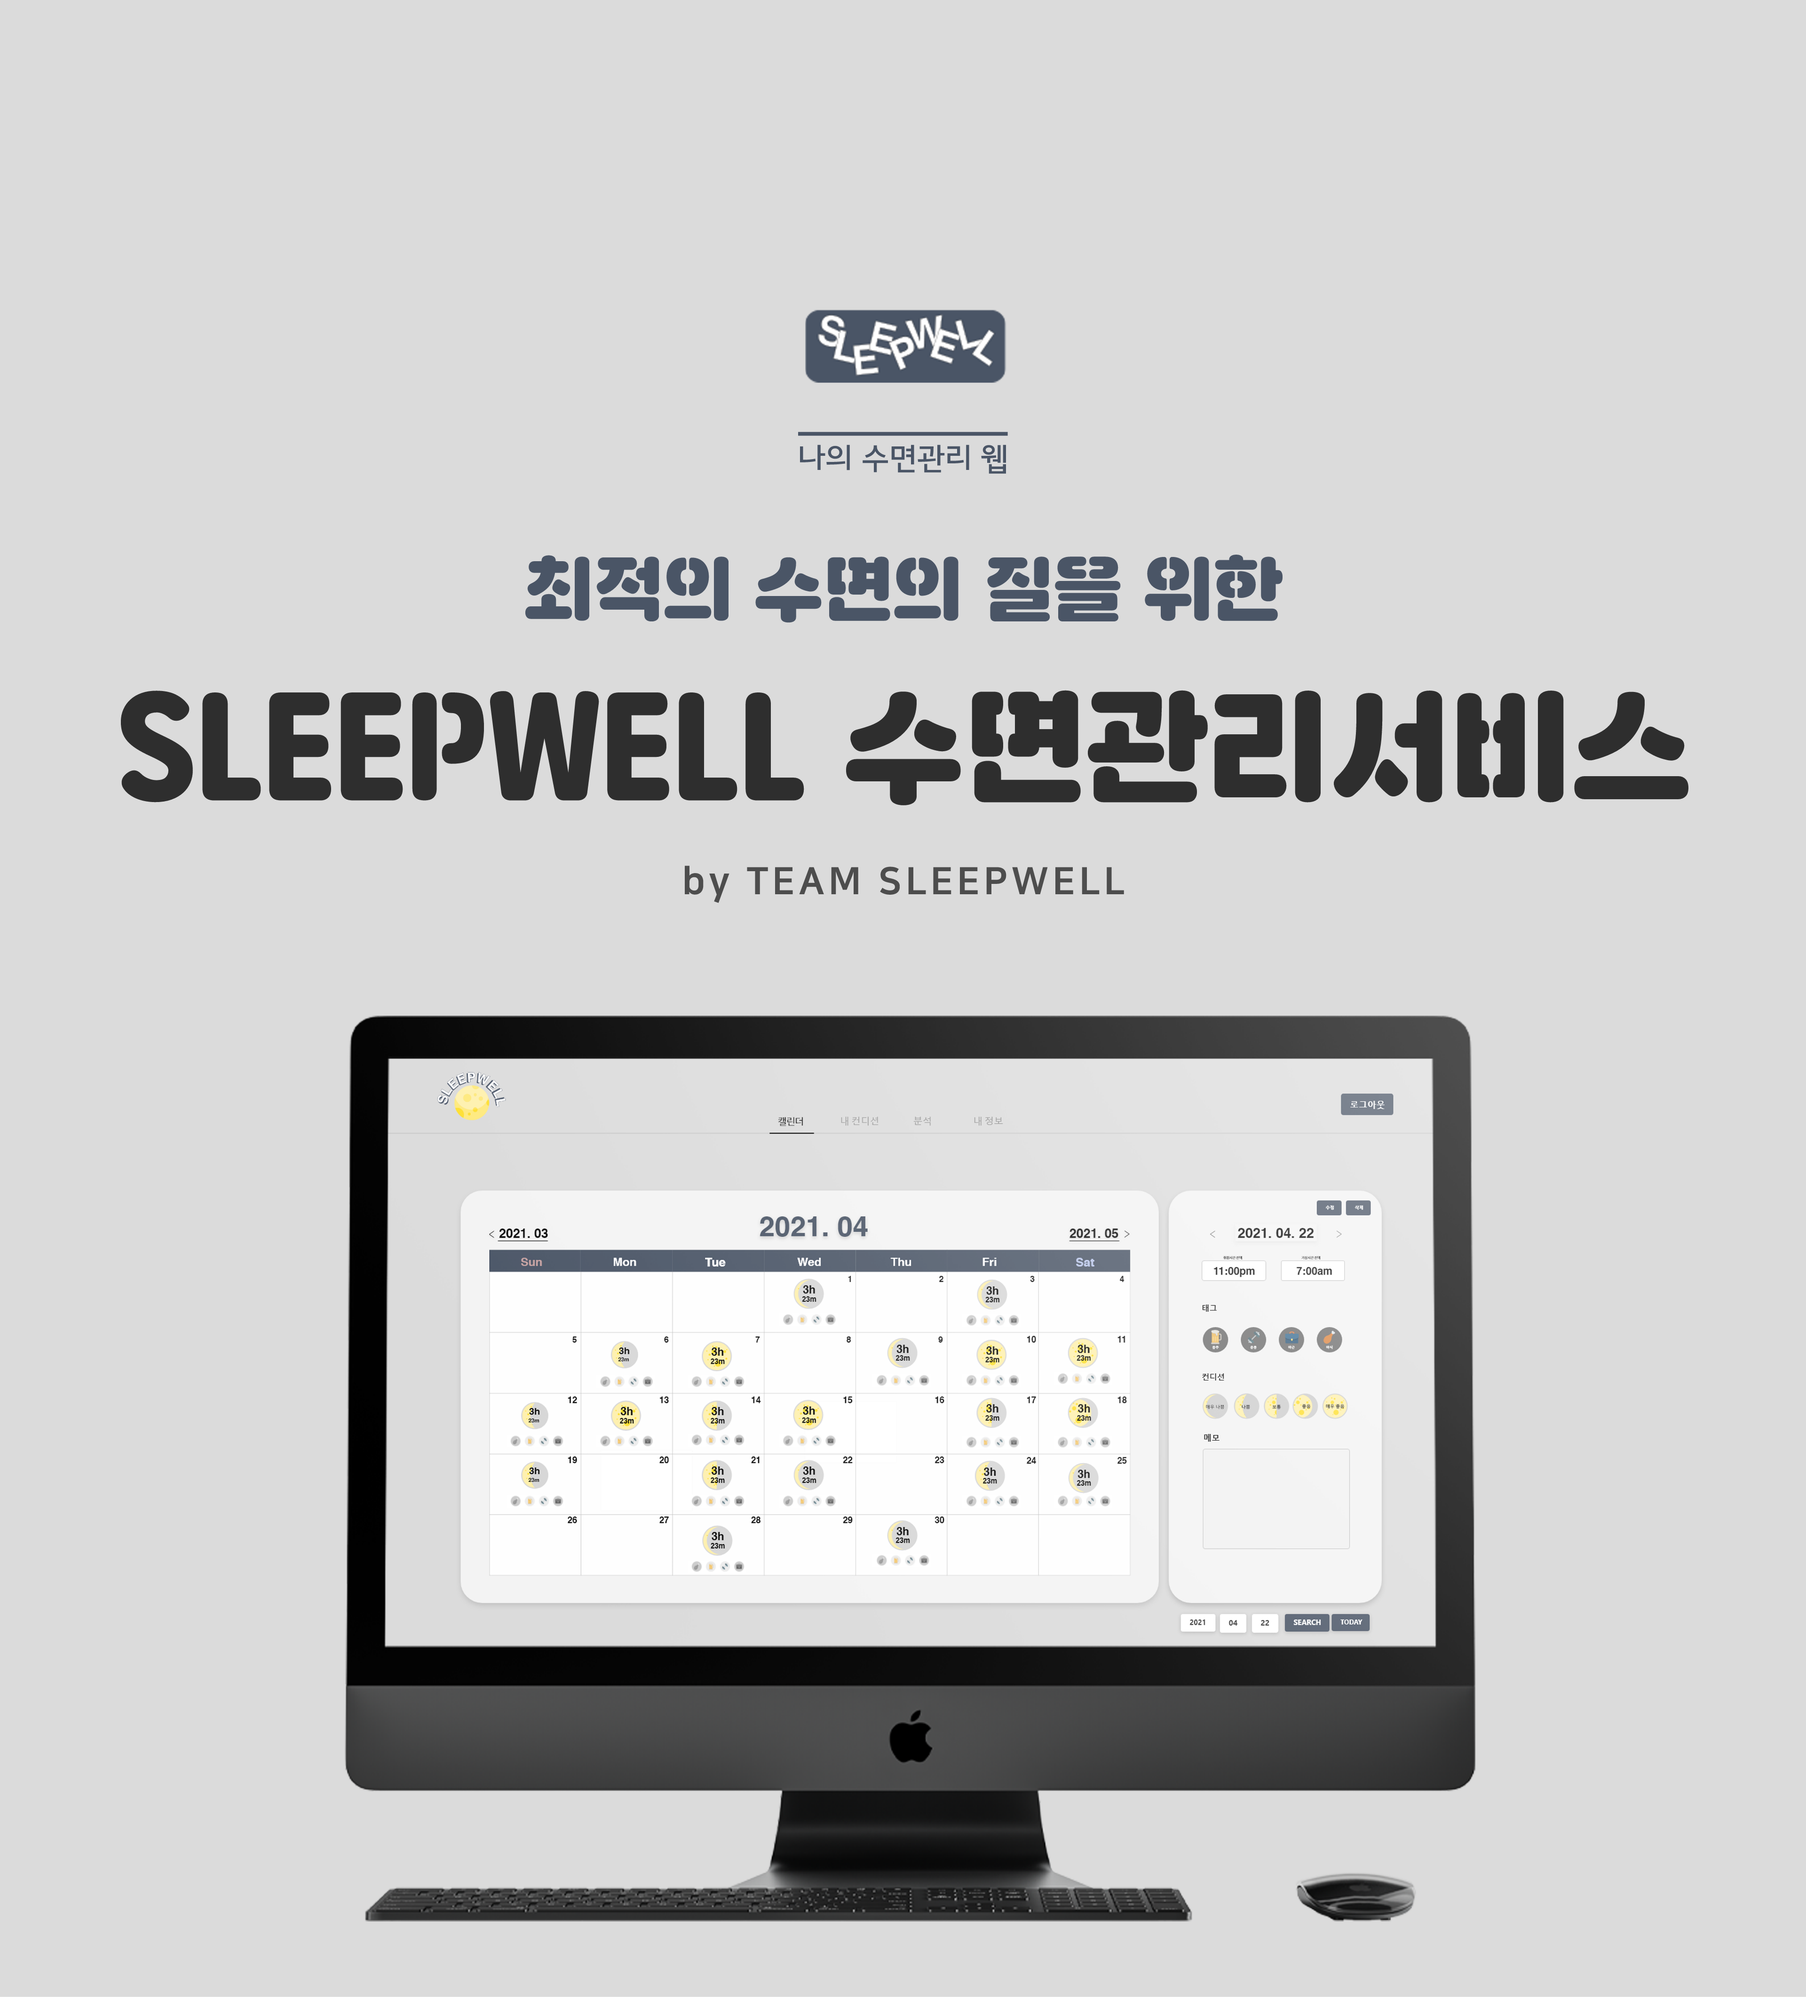
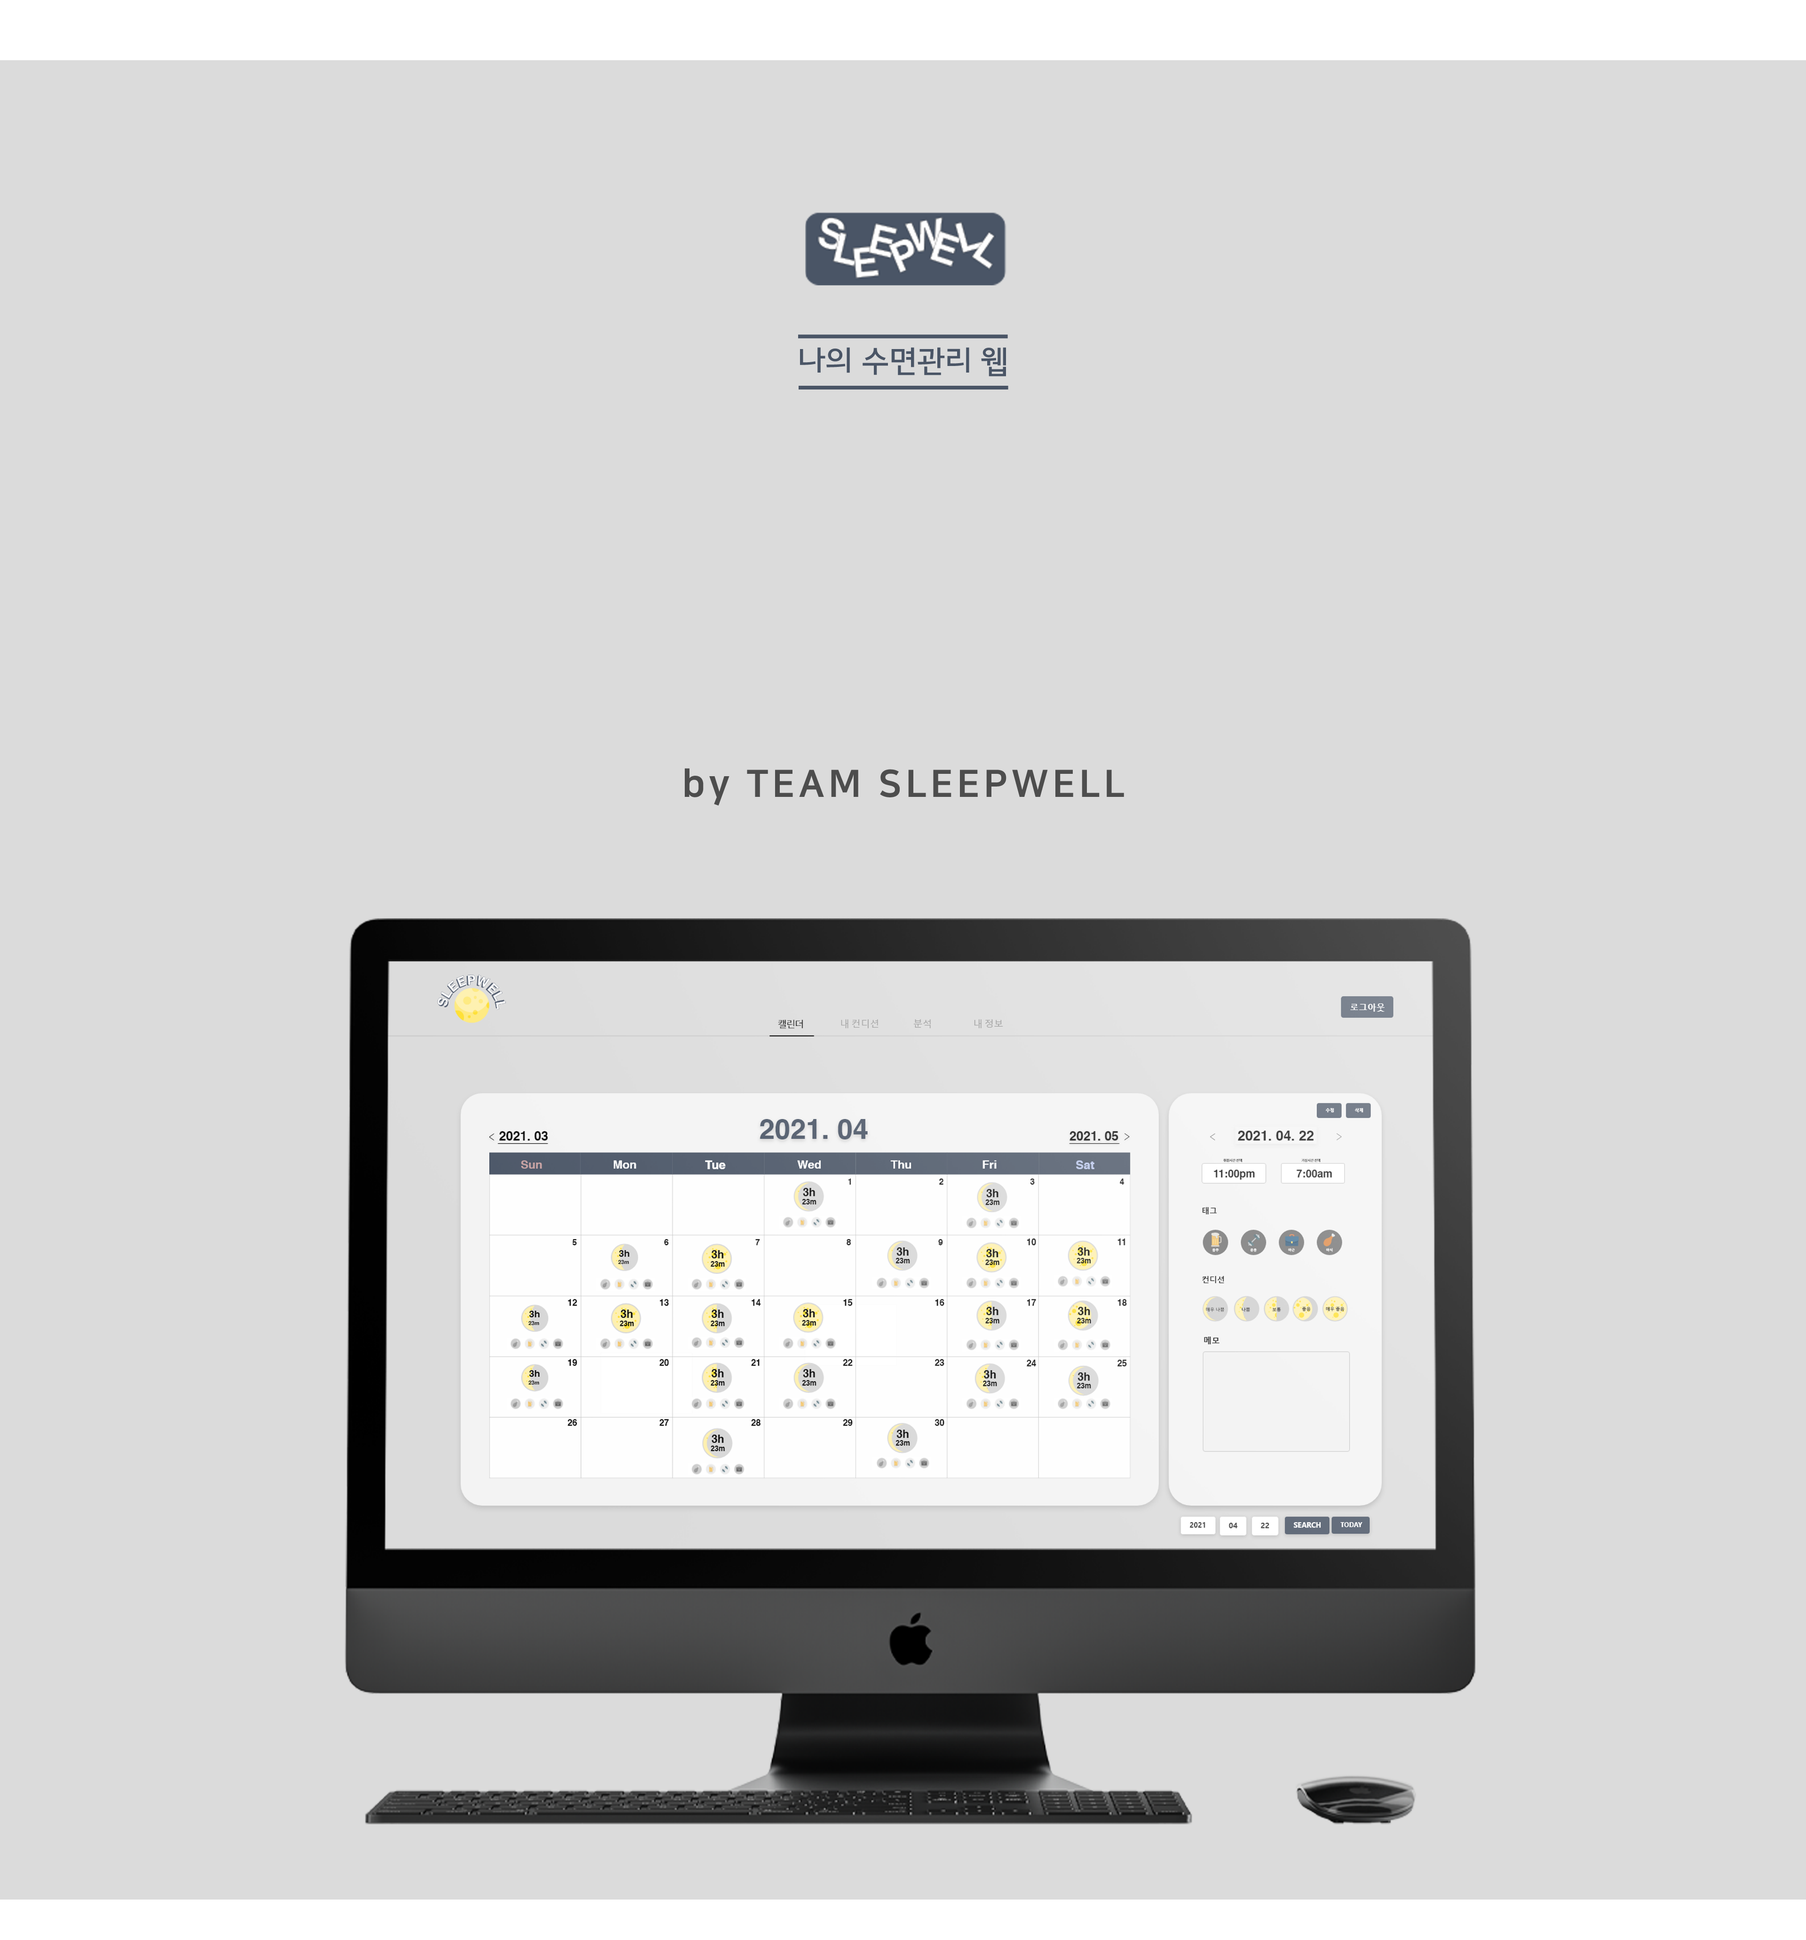
이미지 및  파일수정

diff --git a/src/pages/Intro.js b/src/pages/Intro.js
@@ -9,6 +9,7 @@ import IntroE from "../images/Intro_E.png";
 import IntroF from "../images/Intro_F.png";
 import IntroG from "../images/Intro_G.png";
 import Title3 from "../images/Title3.png";
+import IntroA1 from "../images/in1.png";
 
 import IntroHeader from "../components/IntroHeader";
 import "../components/Font.css";
@@ -19,7 +20,7 @@ const Intro = () => {
       <Wrap>
         <IntroHeader />
         <Backgroud bg={"#DBDBDB"}>
-          {/* <Title3Img src={Title3}/> */}
+          <PlusImg1 src={IntroA1}/>
           <BackImg src={IntroA} />
         </Backgroud>
         <Backgroud bg={"white"}>
@@ -125,6 +126,25 @@ const BackImg = styled.img`
   }
 `;
 
+
+const boxFade = keyframes`
+  0% {
+    opacity: 0;
+  }
+  100% {
+    opacity: 1;
+  }
+ `;
+const PlusImg1 = styled.img`
+display: flex;
+position: absolute;
+ width:65%;
+ height: 22%;
+ top:37%;
+ left: 19%;
+ z-index:1;
+ animation: ${boxFade} 2.5s ease-in alternate;
+`
 export default Intro;
 
 // const slidein = keyframes`
